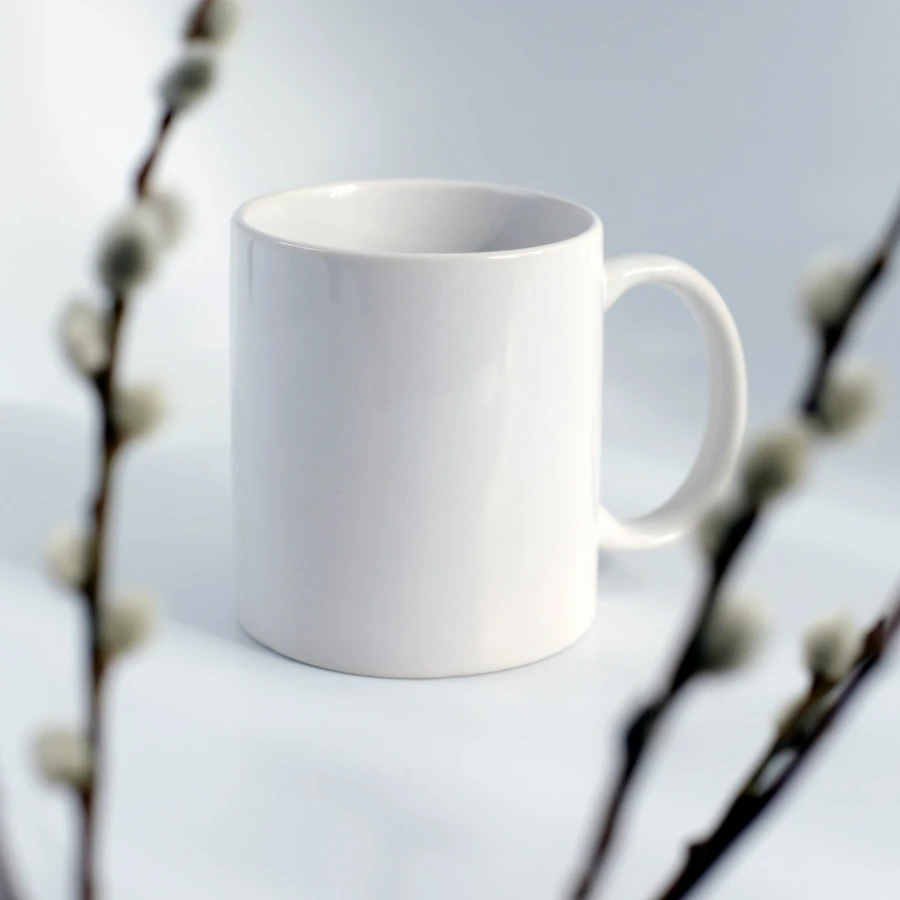
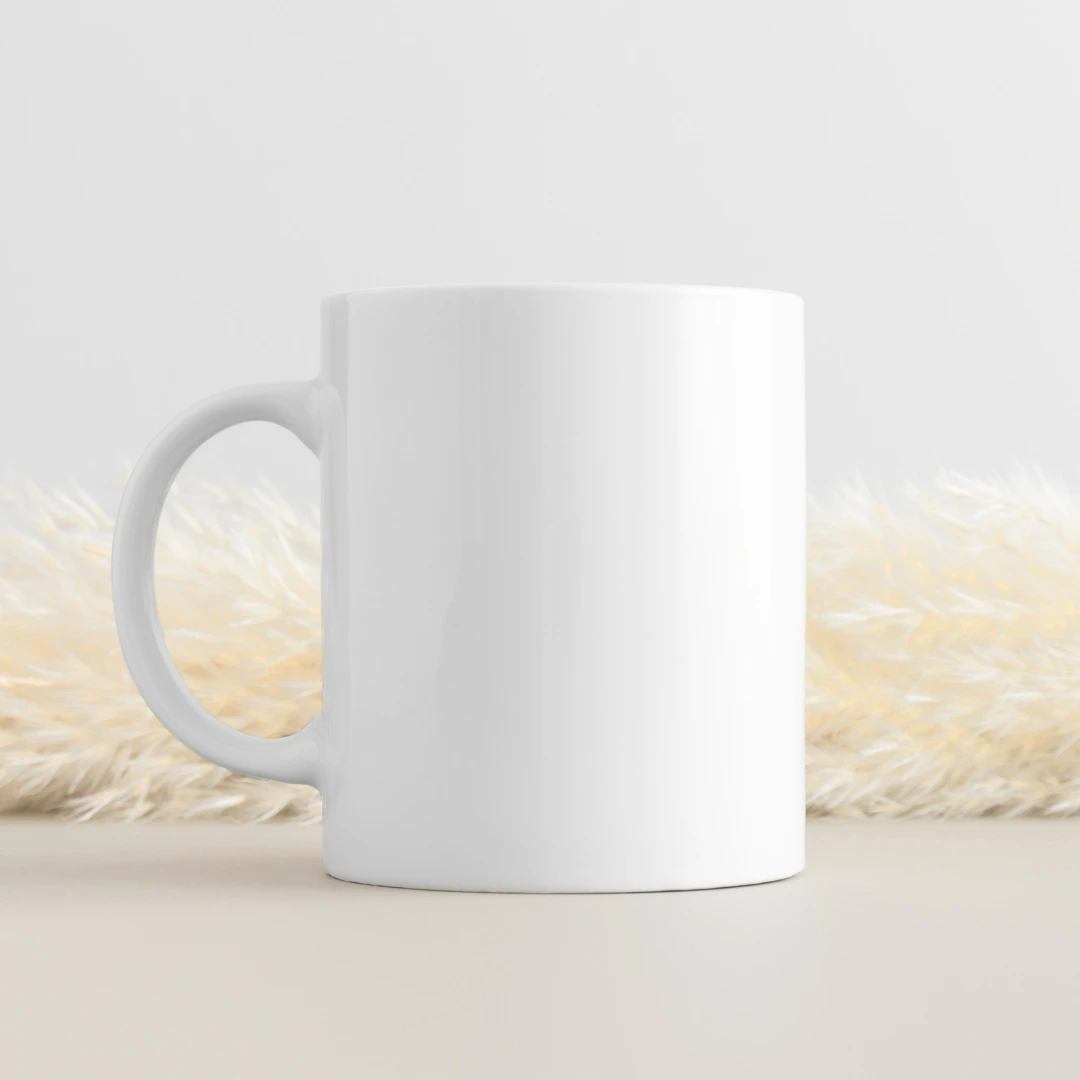
feat(preview): use the Canva mug mockup set (front, left, right, lifestyle, flat lay)
Replaces the two Unsplash photos with five uniform 1080x1080 Canva mockups.
Each is measured (body, rim/base sag, handle angle) in MOCKUP_SPECS; a photo
with the handle on the left is its own file, so runtime mirroring is opt-in
(spec.mirror). The front view (handle hidden, handleAngleDeg 180) shows the
design centre. Front is the default first image; e2e alt-text checks updated.
Docs list the assets and how to swap backgrounds/props.

Claude-Session: https://claude.ai/code/session_017MYewWVVUbiSj2WhFN4AZY

diff --git a/src/features/editor/mockup/specs.ts b/src/features/editor/mockup/specs.ts
@@ -17,6 +17,8 @@ export interface MockupSpec {
   label: string;
   /** Which half of the wrap this photo shows: "right" = handle on the right. */
   side: MockupSide;
+  /** Flip the photo left/right before use (body coordinates are in the unflipped photo). */
+  mirror?: boolean;
   src: string;
   widthPx: number;
   heightPx: number;
@@ -44,39 +46,80 @@ export interface MockupSpec {
   credit: string;
 }
 
-/** Straight-on side photo, handle on the right. The left view mirrors it. */
-const MUG_SIDE = {
-  src: "/mockups/mug-side.webp",
-  widthPx: 822,
-  heightPx: 642,
-  body: { left: 217.2, right: 604.2, top: 82.8, bottom: 573 },
+/**
+ * The Canva mug set (1080 x 1080). Photos are interchangeable: to change the
+ * background, props or colours, replace the file and re-measure `body`, `sag`
+ * and `handleAngleDeg` (docs/ops/mockup-assets.md); nothing else changes.
+ *
+ * Vector-style studio shots (front/left/right) share one mug, so they share
+ * geometry. Their `top` is the top edge of the wall at the centre, and the
+ * camera is slightly above the base (base curves down, rim outline curves up).
+ */
+const STUDIO = {
+  widthPx: 1080,
+  heightPx: 1080,
   // Printful 11oz (approx.): 8.3 cm across, 9.6 cm tall. Vendor to confirm.
   geometry: { diameterMm: 83 },
   mugHeightMm: 96,
-  // Measured on the photo: the base edge is ~20 px lower at the centre; the
-  // camera is at rim height, so the rim is nearly straight (slightly up).
-  sag: { rim: -6, base: 20 },
-  credit: "Unsplash",
+  sag: { rim: -26, base: 30 },
+  credit: "Canva",
 } as const;
 
 export const MOCKUP_SPECS: Partial<Record<ProductId, readonly MockupSpec[]>> = {
   mug: [
-    { ...MUG_SIDE, id: "left", label: "Left", side: "left" },
-    { ...MUG_SIDE, id: "right", label: "Right", side: "right" },
+    {
+      ...STUDIO,
+      id: "front",
+      label: "Front",
+      // Handle hidden behind the mug (180 deg): the design centre faces us.
+      side: "right",
+      src: "/mockups/mug-front.webp",
+      body: { left: 272, right: 756, top: 221, bottom: 834 },
+      geometry: { diameterMm: 83, handleAngleDeg: 180 },
+    },
+    {
+      ...STUDIO,
+      id: "left",
+      label: "Left",
+      side: "left",
+      src: "/mockups/mug-left.webp",
+      body: { left: 279, right: 762, top: 221, bottom: 834 },
+    },
+    {
+      ...STUDIO,
+      id: "right",
+      label: "Right",
+      side: "right",
+      src: "/mockups/mug-right.webp",
+      body: { left: 276, right: 759, top: 221, bottom: 834 },
+    },
     {
       id: "lifestyle",
       label: "Lifestyle",
-      side: "right",
+      side: "left",
       src: "/mockups/mug-lifestyle.webp",
-      widthPx: 900,
-      heightPx: 900,
-      body: { left: 232, right: 596, top: 260, bottom: 677 },
-      // The photo is from ~20 deg above (both rim and base curve down) and the
-      // mug is turned so the handle is ~64 deg from the camera.
-      geometry: { diameterMm: 83, handleAngleDeg: 64 },
+      widthPx: 1080,
+      heightPx: 1080,
+      // Eye-level photo, mug turned a little (handle ~77 deg from the camera).
+      body: { left: 322, right: 806, top: 285, bottom: 894 },
+      geometry: { diameterMm: 83, handleAngleDeg: 77 },
       mugHeightMm: 96,
-      sag: { rim: 48, base: 65 },
-      credit: "Unsplash",
+      sag: { rim: -18, base: 25 },
+      credit: "Canva",
+    },
+    {
+      id: "flatlay",
+      label: "Flat lay",
+      side: "left",
+      src: "/mockups/mug-flatlay.webp",
+      widthPx: 1080,
+      heightPx: 1080,
+      // Shot from above on a desk; handle turned ~60 deg from the camera.
+      body: { left: 320, right: 790, top: 245, bottom: 838 },
+      geometry: { diameterMm: 83, handleAngleDeg: 60 },
+      mugHeightMm: 96,
+      sag: { rim: -20, base: 30 },
+      credit: "Canva",
     },
   ],
 };

diff --git a/src/features/editor/mockup/compose.ts b/src/features/editor/mockup/compose.ts
@@ -45,8 +45,9 @@ function sample(
 /**
  * Wraps a rendered design (transparent PNG data URL of the whole print area)
  * around the mug photo. The photo's own brightness shades the print
- * (multiply), so gloss and the round falloff carry through. `side: "left"`
- * mirrors the photo (handle on the left) and shows the other half of the wrap.
+ * (multiply), so gloss and the round falloff carry through. `spec.side` says
+ * which half of the wrap the photo shows (handle side); `spec.mirror` flips the
+ * photo when it was measured the other way round.
  * Returns a WebP/JPEG data URL at the photo's size.
  */
 export async function composeMockup(
@@ -70,7 +71,8 @@ export async function composeMockup(
   canvas.height = H;
   const ctx = canvas.getContext("2d", { willReadFrequently: true });
   if (!ctx) throw new Error("Canvas not available");
-  if (side === "left") {
+  const mirror = !!spec.mirror;
+  if (mirror) {
     ctx.translate(W, 0);
     ctx.scale(-1, 1);
   }
@@ -90,8 +92,8 @@ export async function composeMockup(
   const dd = dctx.getImageData(0, 0, dw, dh).data;
 
   const b = spec.body;
-  const left = side === "left" ? W - b.right : b.left;
-  const right = side === "left" ? W - b.left : b.right;
+  const left = mirror ? W - b.right : b.left;
+  const right = mirror ? W - b.left : b.right;
   const cx = (left + right) / 2;
   const r = (right - left) / 2;
   const pxPerMm = verticalPxPerMm(b, spec.mugHeightMm);

diff --git a/tests/e2e/mockup.spec.ts b/tests/e2e/mockup.spec.ts
@@ -2,7 +2,7 @@ import { readFileSync } from "node:fs";
 import { join } from "node:path";
 import { expect, test } from "@playwright/test";
 
-test("preview is a gallery of mockups (no flat design): left, right and lifestyle", async ({
+test("preview is a gallery of mockups (no flat design): front, left, right, lifestyle and flat lay", async ({
   page,
 }) => {
   const doc: unknown = JSON.parse(
@@ -19,9 +19,11 @@ test("preview is a gallery of mockups (no flat design): left, right and lifestyl
   await expect(page.getByRole("tablist")).toHaveCount(0);
 
   for (const [id, label] of [
+    ["front", "front"],
     ["left", "left"],
     ["right", "right"],
     ["lifestyle", "lifestyle"],
+    ["flatlay", "flat lay"],
   ] as const) {
     await page.getByTestId(`preview-thumb-${id}`).click();
     await expect(page.getByTestId(`preview-thumb-${id}`)).toHaveAttribute(

diff --git a/tests/e2e/font-parity.spec.ts b/tests/e2e/font-parity.spec.ts
@@ -142,7 +142,7 @@ test("the Preview step waits for the design's fonts before rendering", async ({
   await seedDraft(page, doc);
   const requested = fontRequests(page);
   await page.goto("/design/mug/preview");
-  await expect(page.getByAltText(/Your Custom Mug, left view/)).toBeVisible();
+  await expect(page.getByAltText(/Your Custom Mug, front view/)).toBeVisible();
   expect(requested).toContain(
     "noto-nastaliq-urdu/NotoNastaliqUrdu-Regular.woff2",
   );

diff --git a/tests/e2e/editor.spec.ts b/tests/e2e/editor.spec.ts
@@ -152,7 +152,7 @@ test("back / next navigation keeps the design", async ({ page }) => {
   await page.getByRole("link", { name: "Preview", exact: true }).click();
   await expect(page).toHaveURL(/\/design\/mug\/preview$/);
   await expect(
-    page.getByRole("img", { name: /Custom Mug, left view/ }),
+    page.getByRole("img", { name: /Custom Mug, front view/ }),
   ).toBeVisible();
   await expect(page.getByTestId("preview-layers")).toHaveText("1");
 

diff --git a/tests/e2e/image.spec.ts b/tests/e2e/image.spec.ts
@@ -135,7 +135,7 @@ test("photos survive reload and appear on the preview with their quality", async
   await page.getByRole("link", { name: "Preview", exact: true }).click();
   await expect(page.getByTestId("preview-quality")).toContainText("Sharp");
   await expect(
-    page.getByRole("img", { name: /Custom Mug, left view/ }),
+    page.getByRole("img", { name: /Custom Mug, front view/ }),
   ).toBeVisible();
 });
 

diff --git a/docs/ops/mockup-assets.md b/docs/ops/mockup-assets.md
@@ -3,23 +3,31 @@
 Preview mockups wrap the customer's design around a photo of the product
 (`src/features/editor/mockup/`). Photos live in `public/mockups/`.
 
-| File                           | Used for                             | Source                           |
-| ------------------------------ | ------------------------------------ | -------------------------------- |
-| `public/mockups/mug-side.webp` | Mug preview, left + right side views | Unsplash (free licence), cropped |
+| File                                | View                                          | Source |
+| ----------------------------------- | --------------------------------------------- | ------ |
+| `public/mockups/mug-front.webp`     | Front (handle hidden, design centre faces us) | Canva  |
+| `public/mockups/mug-left.webp`      | Left side (handle on the left)                | Canva  |
+| `public/mockups/mug-right.webp`     | Right side (handle on the right)              | Canva  |
+| `public/mockups/mug-lifestyle.webp` | Lifestyle: pampas grass, eye level            | Canva  |
+| `public/mockups/mug-flatlay.webp`   | Flat lay on a desk with props, from above     | Canva  |
 
-- Unsplash licence: free commercial use, editing allowed, attribution optional.
-  Keep the photo URL and photographer name in the row above when known.
-  Do not offer the photos as downloads.
-- The **left** view is the same photo mirrored at render time, so there is one
-  file per angle.
+- All are 1080 x 1080 WebP. The three studio shots (front/left/right) are the
+  same mug and share geometry. The photos are interchangeable: to use a
+  different background, props or mug colour, replace the file and re-measure
+  (below); the mockup generation does not change.
+- Canva: check that the content licence covers commercial use on the site
+  (Pro/stock elements have their own terms). Keep the Canva project link here.
+- Each photo has its own file (no runtime mirroring); `spec.mirror` exists for
+  a photo measured the other way round.
 
 ## How a view is made
 
 `mockup/mapping.ts` (pure, unit-tested) turns each photo column into an angle
 on the mug and then into a position on the flat design; `mockup/compose.ts`
 paints it, multiplying by the photo's own brightness so gloss and shading show
-through. Right view = right half of the wrap, left view = left half; the print
-stops short of the handle (the gap).
+through. A photo with the handle on the right shows the right half of the wrap, handle
+on the left the left half, and a front view (handle hidden, `handleAngleDeg:
+180`) shows the middle; the print stops short of the handle (the gap).
 
 ## Adding or changing a photo
 
